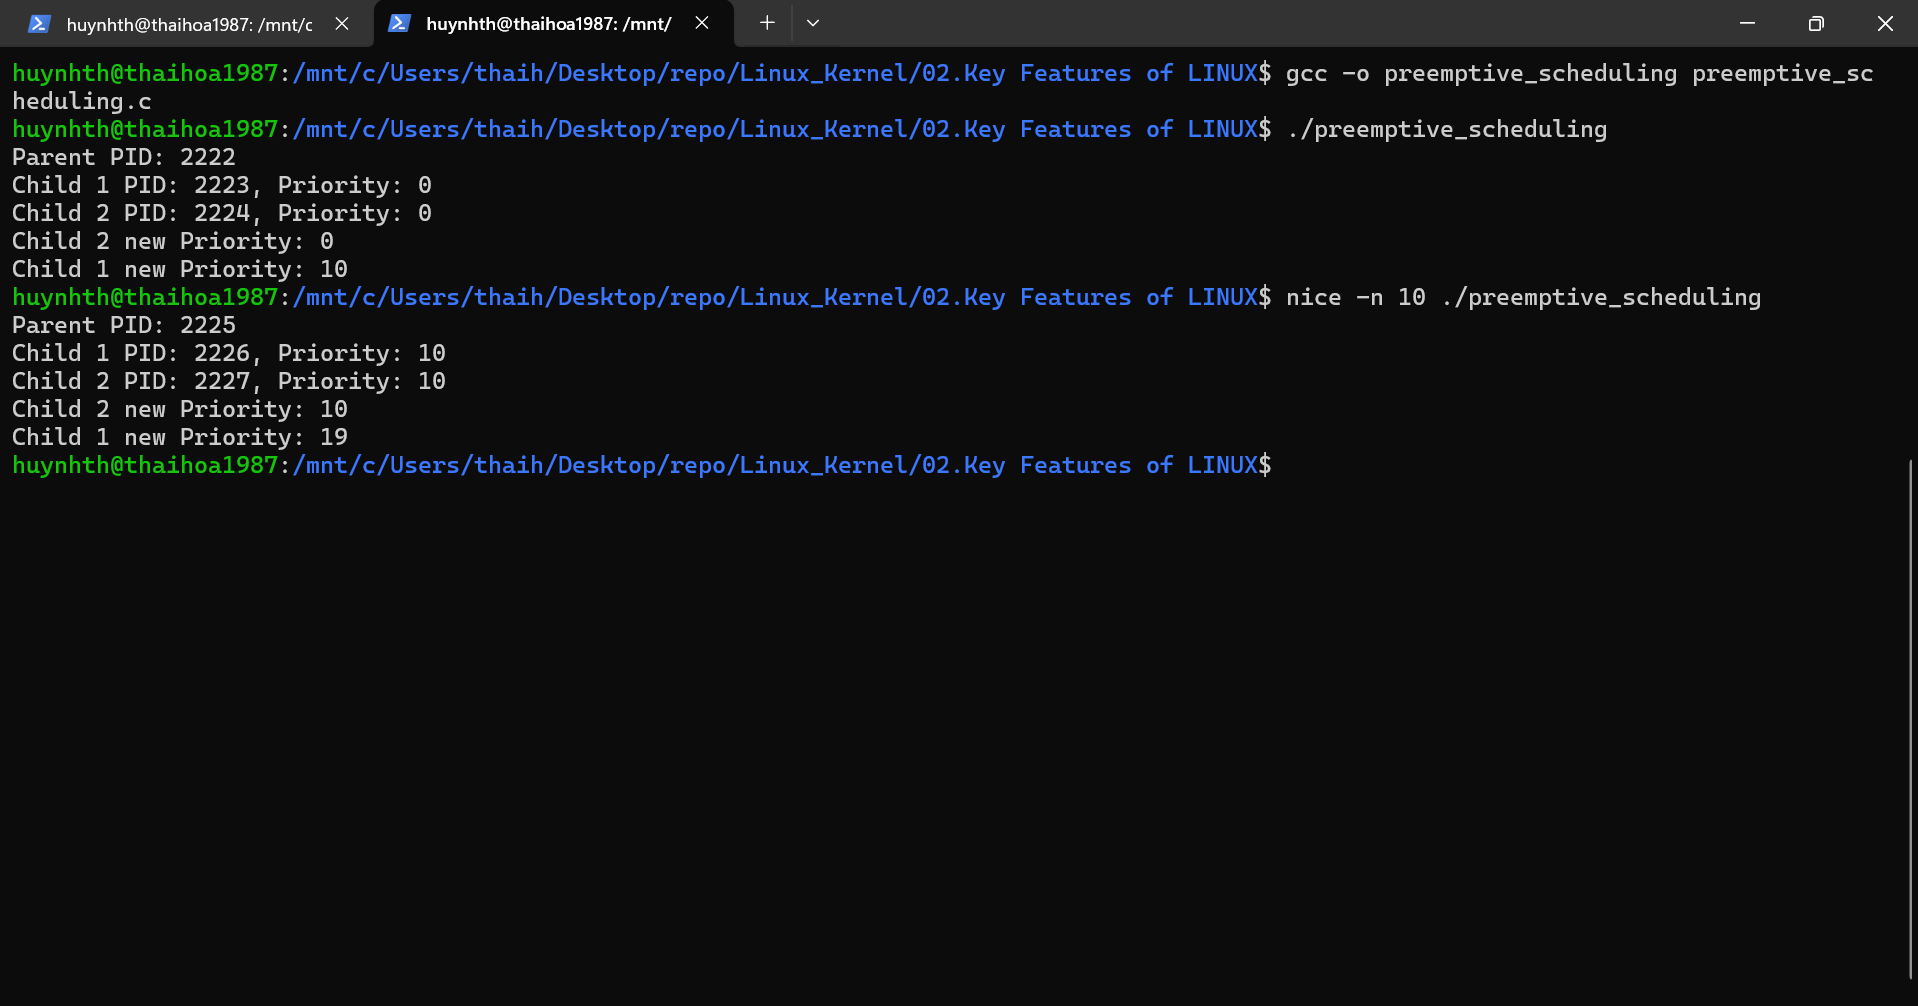
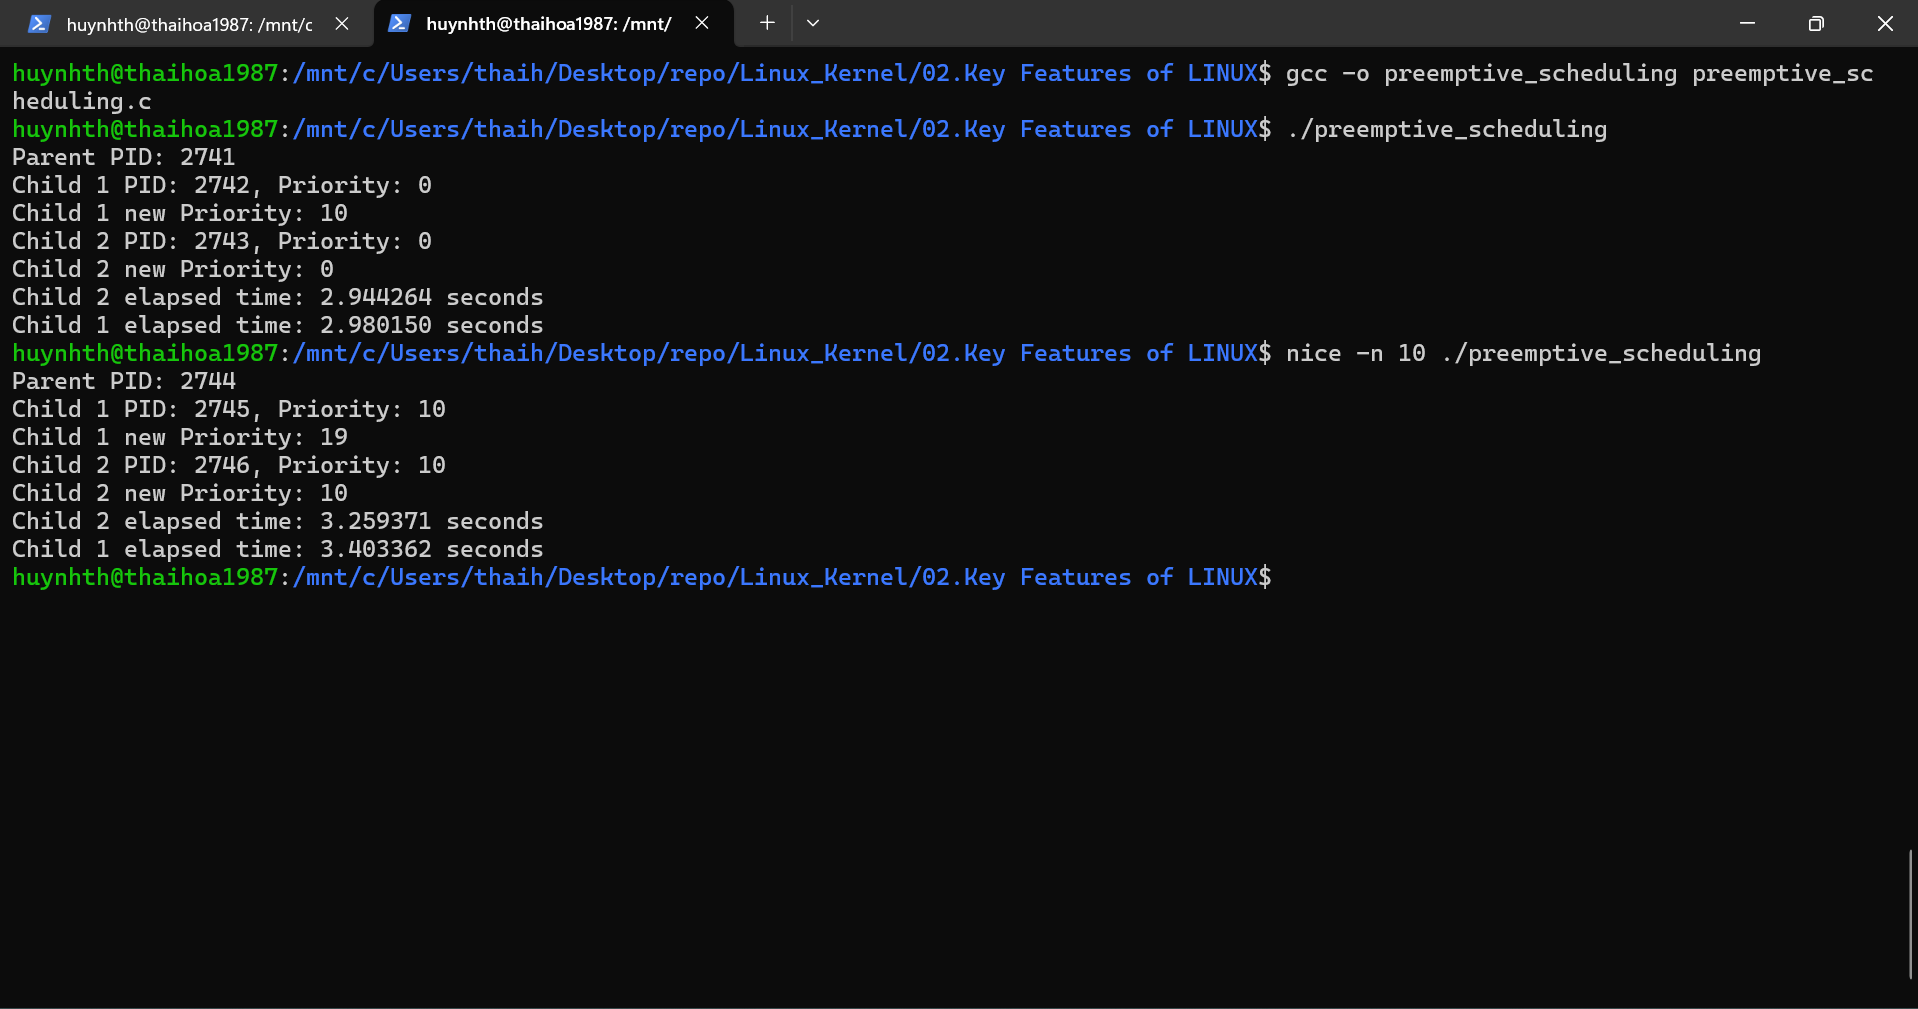
Add clock for preemptive_scheduling.c

diff --git a/02.Key Features of LINUX/preemptive_scheduling.c b/02.Key Features of LINUX/preemptive_scheduling.c
@@ -3,33 +3,44 @@
 #include <unistd.h>
 #include <sys/wait.h>
 #include <sys/resource.h>
+#include <time.h>
 
 void perform_task() {
     long long int i;
-    for (i = 0; i < 1000000000; i++); // Simple loop to consume time
+    for (i = 0; i < 10000000000; i++); // Simple loop to consume time
 }
 
 int main() {
     pid_t pid1, pid2;
+    clock_t start, end;
+    double cpu_time_used;
 
     // Create first child process
     pid1 = fork();
     if (pid1 == 0) {
         // In child process 1
+        start = clock();
         printf("Child 1 PID: %d, Priority: %d\n", getpid(), getpriority(PRIO_PROCESS, 0));
         nice(10); // Increase nice value by 10
         printf("Child 1 new Priority: %d\n", getpriority(PRIO_PROCESS, 0));
         perform_task(); // Perform the task
+        end = clock();
+        cpu_time_used = ((double) (end - start)) / CLOCKS_PER_SEC;
+        printf("Child 1 elapsed time: %f seconds\n", cpu_time_used);
         exit(0);
     } else {
         // Create second child process
         pid2 = fork();
         if (pid2 == 0) {
             // In child process 2
+            start = clock();
             printf("Child 2 PID: %d, Priority: %d\n", getpid(), getpriority(PRIO_PROCESS, 0));
             nice(-10); // Decrease nice value by 10
             printf("Child 2 new Priority: %d\n", getpriority(PRIO_PROCESS, 0));
             perform_task(); // Perform the task
+            end = clock();
+            cpu_time_used = ((double) (end - start)) / CLOCKS_PER_SEC;
+            printf("Child 2 elapsed time: %f seconds\n", cpu_time_used);
             exit(0);
         } else {
             // In parent process

diff --git a/02.Key Features of LINUX/Bai_tap_thuc_hanh.md b/02.Key Features of LINUX/Bai_tap_thuc_hanh.md
@@ -48,10 +48,9 @@ Bài tập:
 	
 -----
 
-manage_threads_in_linux.c
+[`manage_threads_in_linux.c`](manage_threads_in_linux.c)
 ![This is result of compiling & running manage_threads_in_linux.c](5.pthread.png)
 
-[`manage_threads_in_linux.c`](manage_threads_in_linux.c)
 
 ### Lập trình với Preemptive Scheduling ### 
 Bài tập:
@@ -66,7 +65,5 @@ Bài tập:
 	
 -----
 
-preemptive_scheduling.c
-![This is result of compiling & running preemptive_scheduling.c](6.preemptive-scheduling.png)
-
 [`preemptive_scheduling.c`](preemptive_scheduling.c)
+![This is result of compiling & running preemptive_scheduling.c](6.preemptive-scheduling.png)
